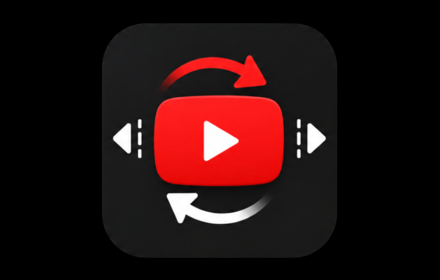
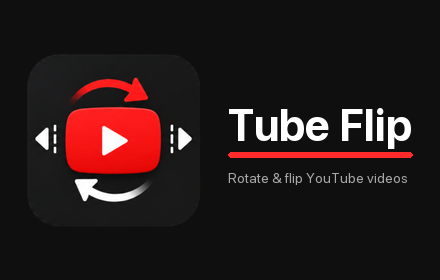
Add landing page and refresh promo/store assets
- index.html is now the Tube Flip landing page (privacy policy stays
  at /privacy-policy)
- Add to Chrome CTA commented out until the extension is published
- Regenerated small promo tile, added marquee promo tile, resized
  controls screenshot to 1280x800

Changed region(s): [[0.0591, 0.1714, 0.9455, 0.8286]]

diff --git a/index.html b/index.html
@@ -3,81 +3,213 @@
 <head>
   <meta charset="utf-8">
   <meta name="viewport" content="width=device-width, initial-scale=1">
-  <title>Privacy Policy — Tube Flip</title>
+  <title>Tube Flip — Rotate & flip YouTube videos</title>
+  <meta name="description" content="A tiny Chrome extension that adds rotate and flip buttons to the YouTube player. Turn any video 90° or mirror it, right from the controls bar.">
+  <meta property="og:title" content="Tube Flip">
+  <meta property="og:description" content="Rotate and flip YouTube videos right from the player controls.">
+  <meta property="og:image" content="icons/promo-marquee-1400x560.png">
+  <meta property="og:type" content="website">
+  <link rel="icon" href="icons/icon48.png">
   <style>
-    :root { color-scheme: light dark; }
+    :root {
+      --bg: #0b0b0b;
+      --surface: #161616;
+      --surface-2: #1e1e1e;
+      --border: #2a2a2a;
+      --text: #f4f4f4;
+      --muted: #9a9a9a;
+      --red: #ff2a2a;
+      --red-dark: #d81f1f;
+      --radius: 16px;
+      --max: 1080px;
+    }
+    * { box-sizing: border-box; }
+    html { scroll-behavior: smooth; }
     body {
+      margin: 0;
       font-family: -apple-system, BlinkMacSystemFont, "Segoe UI", Roboto, Helvetica, Arial, sans-serif;
+      background: var(--bg);
+      color: var(--text);
       line-height: 1.6;
-      max-width: 720px;
-      margin: 0 auto;
-      padding: 2.5rem 1.25rem 4rem;
-      color: #1a1a1a;
-      background: #fff;
+      -webkit-font-smoothing: antialiased;
     }
-    @media (prefers-color-scheme: dark) {
-      body { color: #e6e6e6; background: #121212; }
-      a { color: #7cb0ff; }
+    a { color: inherit; }
+    img { max-width: 100%; display: block; }
+    .wrap { max-width: var(--max); margin: 0 auto; padding: 0 24px; }
+
+    /* Header */
+    header {
+      position: sticky; top: 0; z-index: 10;
+      backdrop-filter: blur(10px);
+      background: rgba(11,11,11,0.72);
+      border-bottom: 1px solid var(--border);
     }
-    h1 { font-size: 1.6rem; margin-bottom: 0.25rem; }
-    h2 { font-size: 1.15rem; margin-top: 2rem; }
-    .updated { color: #888; font-size: 0.9rem; margin-top: 0; }
-    code { font-family: ui-monospace, SFMono-Regular, Menlo, monospace; font-size: 0.9em; }
+    .nav { display: flex; align-items: center; justify-content: space-between; height: 64px; }
+    .brand { display: flex; align-items: center; gap: 10px; font-weight: 700; font-size: 1.1rem; text-decoration: none; }
+    .brand img { width: 30px; height: 30px; border-radius: 7px; }
+    .nav-links { display: flex; align-items: center; gap: 20px; }
+    .nav-links a { color: var(--muted); text-decoration: none; font-size: 0.95rem; }
+    .nav-links a:hover { color: var(--text); }
+
+    .btn {
+      display: inline-flex; align-items: center; gap: 8px;
+      background: var(--red); color: #fff; text-decoration: none;
+      font-weight: 600; font-size: 0.95rem;
+      padding: 10px 18px; border-radius: 999px;
+      transition: background 0.15s ease, transform 0.15s ease;
+      white-space: nowrap;
+    }
+    .btn:hover { background: var(--red-dark); transform: translateY(-1px); }
+    .btn svg { width: 18px; height: 18px; }
+
+    /* Hero */
+    .hero { text-align: center; padding: 88px 0 64px; }
+    .hero-logo { width: 132px; height: 132px; margin: 0 auto 28px; border-radius: 28px; box-shadow: 0 20px 60px rgba(255,42,42,0.18); }
+    .hero h1 { font-size: clamp(2.4rem, 6vw, 3.6rem); margin: 0 0 12px; letter-spacing: -0.02em; }
+    .hero .tagline { font-size: clamp(1.05rem, 2.6vw, 1.35rem); color: var(--muted); margin: 0 auto 28px; max-width: 620px; }
+    .hero .cta-row { display: flex; gap: 14px; justify-content: center; flex-wrap: wrap; }
+    .btn-ghost { background: var(--surface-2); border: 1px solid var(--border); }
+    .btn-ghost:hover { background: #262626; }
+    .hero .subnote { margin-top: 16px; font-size: 0.85rem; color: var(--muted); }
+
+    /* Sections */
+    section { padding: 56px 0; }
+    .section-title { text-align: center; font-size: clamp(1.6rem, 4vw, 2.1rem); margin: 0 0 8px; letter-spacing: -0.01em; }
+    .section-sub { text-align: center; color: var(--muted); margin: 0 auto 40px; max-width: 560px; }
+
+    /* Features */
+    .features { display: grid; grid-template-columns: repeat(auto-fit, minmax(240px, 1fr)); gap: 20px; }
+    .card {
+      background: var(--surface); border: 1px solid var(--border);
+      border-radius: var(--radius); padding: 28px;
+    }
+    .card .ic {
+      width: 46px; height: 46px; border-radius: 12px;
+      background: rgba(255,42,42,0.12); color: var(--red);
+      display: grid; place-items: center; margin-bottom: 16px;
+    }
+    .card .ic svg { width: 24px; height: 24px; }
+    .card h3 { margin: 0 0 6px; font-size: 1.15rem; }
+    .card p { margin: 0; color: var(--muted); font-size: 0.95rem; }
+
+    /* Screenshots */
+    .shots { display: grid; grid-template-columns: repeat(auto-fit, minmax(280px, 1fr)); gap: 20px; }
+    .shot { background: #000; border: 1px solid var(--border); border-radius: var(--radius); overflow: hidden; }
+    .shot img { width: 100%; }
+    .shot figcaption { padding: 14px 18px; color: var(--muted); font-size: 0.9rem; border-top: 1px solid var(--border); background: var(--surface); }
+
+    /* Privacy strip */
+    .privacy { text-align: center; background: var(--surface); border: 1px solid var(--border); border-radius: var(--radius); padding: 40px 28px; }
+    .privacy h2 { margin: 0 0 10px; font-size: 1.5rem; }
+    .privacy p { color: var(--muted); max-width: 560px; margin: 0 auto 8px; }
+    .privacy a { color: var(--red); text-decoration: none; font-weight: 600; }
+    .privacy a:hover { text-decoration: underline; }
+
+    /* Footer */
+    footer { border-top: 1px solid var(--border); padding: 32px 0; color: var(--muted); font-size: 0.9rem; }
+    .foot { display: flex; align-items: center; justify-content: space-between; gap: 16px; flex-wrap: wrap; }
+    .foot a { color: var(--muted); text-decoration: none; }
+    .foot a:hover { color: var(--text); }
+    .foot .links { display: flex; gap: 20px; }
   </style>
 </head>
 <body>
-  <h1>Privacy Policy</h1>
-  <p class="updated">Tube Flip (Chrome extension) · Last updated: 21 August 2026</p>
+  <header>
+    <div class="wrap nav">
+      <a class="brand" href="#top">
+        <img src="icons/icon128.png" alt="Tube Flip logo">
+        Tube Flip
+      </a>
+      <nav class="nav-links">
+        <a href="#features">Features</a>
+        <a href="#screenshots">Screenshots</a>
+        <a href="/privacy-policy">Privacy</a>
+        <!-- Add to Chrome button: enable after publishing and set href to the Chrome Web Store URL
+        <a class="btn" id="cta-store" href="CHROME_WEB_STORE_URL">
+          <svg viewBox="0 0 24 24" fill="currentColor"><path d="M12 2a10 10 0 1 0 10 10A10 10 0 0 0 12 2Zm0 5a5 5 0 0 1 4.33 2.5h-6.5A2.99 2.99 0 0 0 7.6 13.9L5.2 9.74A8 8 0 0 1 12 7Zm-7.8 5a8 8 0 0 1 .53-2.88l3.2 5.55A3 3 0 0 0 11 16.9l-2.4 4.16A8 8 0 0 1 4.2 12Zm7.8 8a8 8 0 0 1-1.06-.07l3.2-5.55A2.99 2.99 0 0 0 15 12a3 3 0 0 0-.13-.87h4.82A8 8 0 0 1 12 20Z"/></svg>
+          Add to Chrome
+        </a>
+        -->
+      </nav>
+    </div>
+  </header>
 
-  <p>
-    This Privacy Policy describes how the <strong>Tube Flip</strong> browser
-    extension ("the extension") handles information. In short: <strong>the extension does not
-    collect, store, transmit, or share any personal data.</strong>
-  </p>
+  <a id="top"></a>
+  <main class="wrap">
+    <section class="hero">
+      <img class="hero-logo" src="icons/android-chrome-512x512.png" alt="Tube Flip">
+      <h1>Turn any YouTube video the right way up</h1>
+      <p class="tagline">Tube Flip adds <strong>rotate</strong> and <strong>flip</strong> buttons to the YouTube player, so you can fix sideways or mirrored footage in one click — right from the controls bar.</p>
+      <div class="cta-row">
+        <!-- Add to Chrome button: enable after publishing and set href to the Chrome Web Store URL
+        <a class="btn" href="CHROME_WEB_STORE_URL">
+          <svg viewBox="0 0 24 24" fill="currentColor"><path d="M12 2a10 10 0 1 0 10 10A10 10 0 0 0 12 2Zm0 5a5 5 0 0 1 4.33 2.5h-6.5A2.99 2.99 0 0 0 7.6 13.9L5.2 9.74A8 8 0 0 1 12 7Zm-7.8 5a8 8 0 0 1 .53-2.88l3.2 5.55A3 3 0 0 0 11 16.9l-2.4 4.16A8 8 0 0 1 4.2 12Zm7.8 8a8 8 0 0 1-1.06-.07l3.2-5.55A2.99 2.99 0 0 0 15 12a3 3 0 0 0-.13-.87h4.82A8 8 0 0 1 12 20Z"/></svg>
+          Add to Chrome
+        </a>
+        -->
+        <a class="btn" href="#features">See how it works</a>
+      </div>
+      <p class="subnote">Free · No account · Works on youtube.com/watch · Coming soon to the Chrome Web Store</p>
+    </section>
 
-  <h2>Data we collect</h2>
-  <p>
-    None. The extension has no accounts, no analytics, no tracking, no cookies, and no
-    background servers. It does not read, record, or send your browsing history, video
-    history, search queries, or any other information anywhere.
-  </p>
+    <section id="features">
+      <h2 class="section-title">Three buttons, right where you need them</h2>
+      <p class="section-sub">New controls appear next to the Settings gear on every watch page.</p>
+      <div class="features">
+        <div class="card">
+          <div class="ic"><svg viewBox="0 0 24 24" fill="none" stroke="currentColor" stroke-width="2" stroke-linecap="round" stroke-linejoin="round"><path d="M21 2v6h-6"/><path d="M3 12a9 9 0 0 1 15-6.7L21 8"/><path d="M3 22v-6h6"/><path d="M21 12a9 9 0 0 1-15 6.7L3 16"/></svg></div>
+          <h3>Rotate 90°</h3>
+          <p>Each click turns the video a quarter-turn clockwise: 0° → 90° → 180° → 270°. Sideways clips are scaled to stay inside the player.</p>
+        </div>
+        <div class="card">
+          <div class="ic"><svg viewBox="0 0 24 24" fill="none" stroke="currentColor" stroke-width="2" stroke-linecap="round" stroke-linejoin="round"><path d="M12 3v18"/><path d="M16 7l4 5-4 5"/><path d="M8 7l-4 5 4 5"/></svg></div>
+          <h3>Flip horizontal</h3>
+          <p>Mirror the video left-to-right — perfect for selfie-cam footage or text that came out backwards.</p>
+        </div>
+        <div class="card">
+          <div class="ic"><svg viewBox="0 0 24 24" fill="none" stroke="currentColor" stroke-width="2" stroke-linecap="round" stroke-linejoin="round"><path d="M3 12h18"/><path d="M7 8l5-4 5 4"/><path d="M7 16l5 4 5-4"/></svg></div>
+          <h3>Flip vertical</h3>
+          <p>Mirror top-to-bottom. Rotation and both flips combine freely, so you can get to any orientation.</p>
+        </div>
+      </div>
+    </section>
 
-  <h2>How the extension works</h2>
-  <p>
-    The extension runs only on YouTube watch pages (<code>https://www.youtube.com/watch</code>).
-    It adds rotate and flip buttons to the video player and changes how the current video is
-    displayed by applying a CSS <code>transform</code> to the video element inside your own
-    browser. All processing happens locally on your device. Nothing leaves your computer.
-  </p>
+    <section id="screenshots">
+      <h2 class="section-title">See it in action</h2>
+      <p class="section-sub">Same player you already know — just a few extra buttons.</p>
+      <div class="shots">
+        <figure class="shot">
+          <img src="store-screenshots/01-controls.png" alt="Rotate and flip buttons in the YouTube control bar" loading="lazy">
+          <figcaption>The new rotate &amp; flip buttons in the controls bar.</figcaption>
+        </figure>
+        <figure class="shot">
+          <img src="store-screenshots/02-player-normal.png" alt="A YouTube video playing normally" loading="lazy">
+          <figcaption>A sideways-recorded clip, before.</figcaption>
+        </figure>
+        <figure class="shot">
+          <img src="store-screenshots/03-player-flipped.png" alt="The same video after flipping" loading="lazy">
+          <figcaption>Flipped in one click, after.</figcaption>
+        </figure>
+      </div>
+    </section>
 
-  <h2>Permissions</h2>
-  <p>
-    The extension requests no special Chrome permissions. Its content script accesses YouTube
-    watch pages solely to insert the player buttons and apply the visual transform described
-    above. This access is not used to collect or transmit any data.
-  </p>
+    <section>
+      <div class="privacy">
+        <h2>Zero data collected</h2>
+        <p>Tube Flip has no accounts, no analytics, no trackers, and no servers. It only changes how a video is displayed inside your own browser.</p>
+        <p><a href="/privacy-policy">Read the full privacy policy →</a></p>
+      </div>
+    </section>
+  </main>
 
-  <h2>Third parties</h2>
-  <p>
-    The extension does not send data to any third party and does not integrate any third-party
-    analytics, advertising, or tracking services.
-  </p>
-
-  <h2>Children's privacy</h2>
-  <p>
-    Because the extension collects no data at all, it collects no data from children.
-  </p>
-
-  <h2>Changes to this policy</h2>
-  <p>
-    If this policy changes, the updated version will be posted at this same URL with a new
-    "Last updated" date.
-  </p>
-
-  <h2>Contact</h2>
-  <p>
-    Questions about this policy can be sent to:
-    <a href="mailto:thuannc97@gmail.com">thuannc97@gmail.com</a>.
-  </p>
+  <footer>
+    <div class="wrap foot">
+      <div>© 2026 Tube Flip</div>
+      <div class="links">
+        <a href="/privacy-policy">Privacy Policy</a>
+        <a href="mailto:thuannc97@gmail.com">Contact</a>
+      </div>
+    </div>
+  </footer>
 </body>
 </html>
